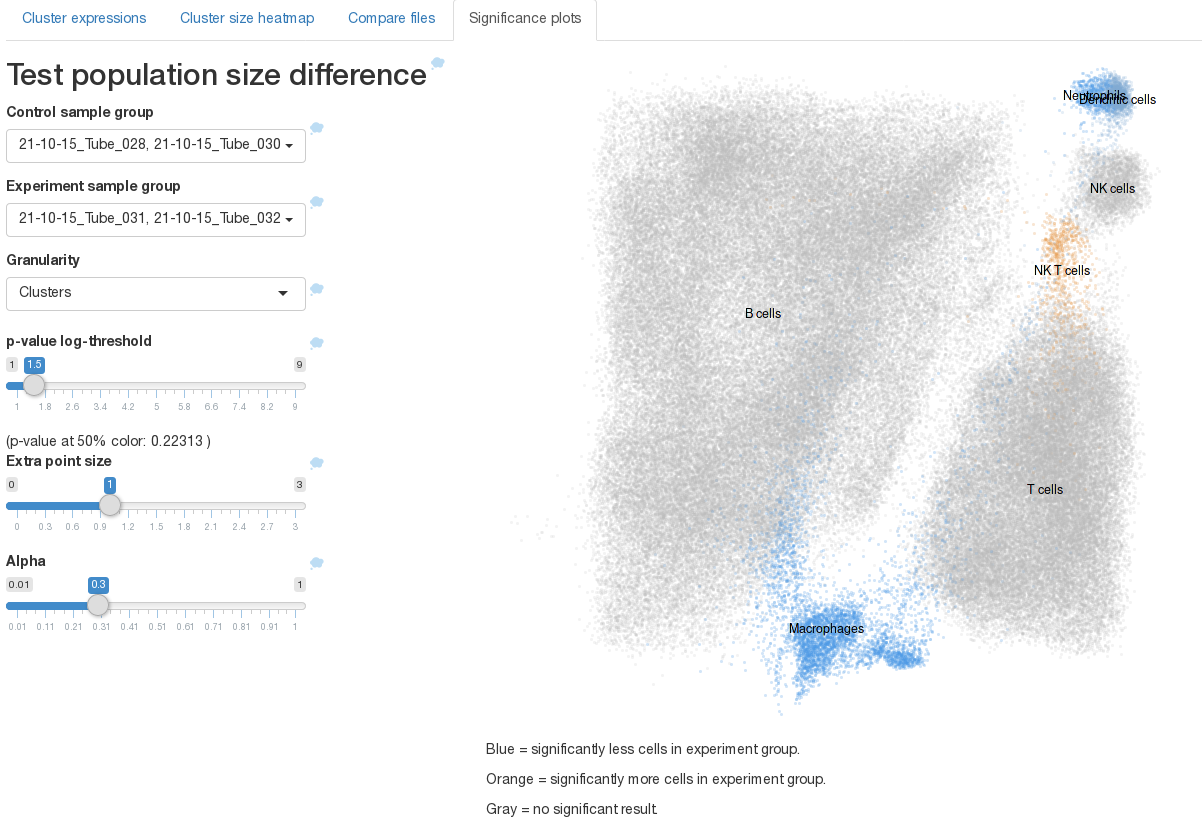
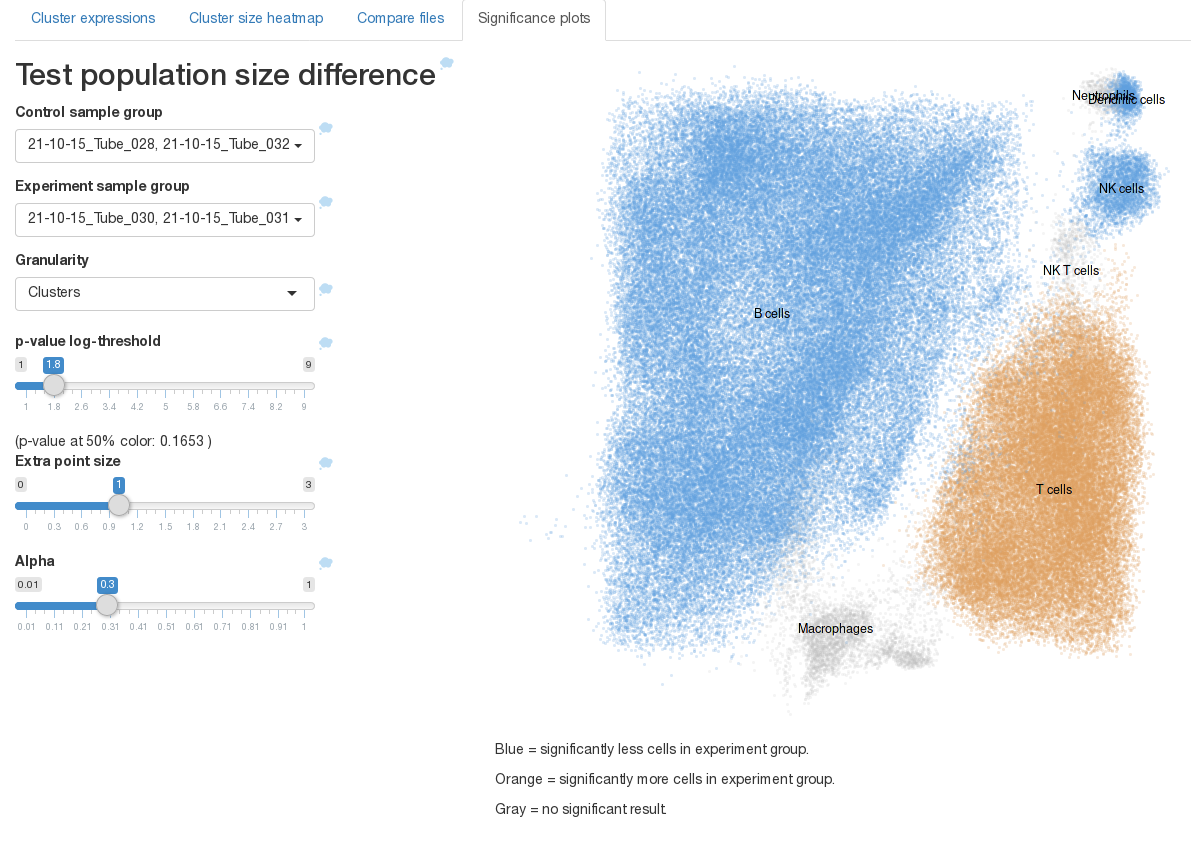
Improve the tutorial analysis a bit

diff --git a/TUTORIAL.md b/TUTORIAL.md
@@ -140,12 +140,12 @@ Notably, as the data is clean from debris, statistical analysis of its content c
 
 ShinySOM offers several useful analyses for getting a good overview of the contents of the selected populations and their differences in individual files. These are available as sub-tabs in the **Analysis** tab:
 
-- Tab **Cluster expressions** allows quick visual comparison of expression of markers in files and clusters. This is useful e.g. for monitoring various activation-related markers (various cytokines) in samples with different stimulation.
+- Tab **Cluster expressions** allows quick visual comparison of expression of markers in files and clusters. This is useful e.g. for monitoring various activation-related markers (various cytokines) in samples with different stimulation. Unfortunately, the dataset we chose does not contain a viable marker for this analysis; but the view can still be used at least for verifying marker expression strength in different files:
 ![Cluster expressions](media/tutorial-clustexpr.png?raw=true)
 - Tab **Cluster size heatmap** provides a visual representation of relative cluster cell count in different files (the R-originated heatmap additionally attempts to group the clusters and files by relative similarity and draws a dendrogram to express it). The data is normalized by columns to show changes in cluster contents well. Precise cell counts for each cluster and file can be exported in a CSV file using the **Export data** tab.
 ![Clusters vs. files heatmap](media/tutorial-heatmap.png?raw=true)
 - Tab **Compare files** allows seeing the difference between two different file groups in the embedding, giving a quick visual comparison of presence of various cell populations.
-- Tab **Significance plots** improves this view by precisely expressing the significance of the cluster size difference by coloring based on statistical testing results. P-values from testing the cluster sizes from "control" and "experiment" group for one-sided inequality are used as a basis the coloring. Using the significance plots, it is easy to detect even small (but statistically significant) differences in size of the populations.
+- Tab **Significance plots** improves this view by precisely expressing the significance of the cluster size difference by coloring based on statistical testing results. P-values from testing the cluster sizes from "control" and "experiment" group for one-sided inequality are used as a basis the coloring. Using the significance plots, it is easy to detect even small (but statistically significant) differences in size of the populations. In our example, the significance plot confirms the findings from the heatmap, but since the statistical significance of the difference is relatively low (p-value is around 0.15), the p-value transform slider needs to be adjusted for seeing the colors:
 ![Significance plots](media/tutorial-sig.png?raw=true)
 
 ## Data export
